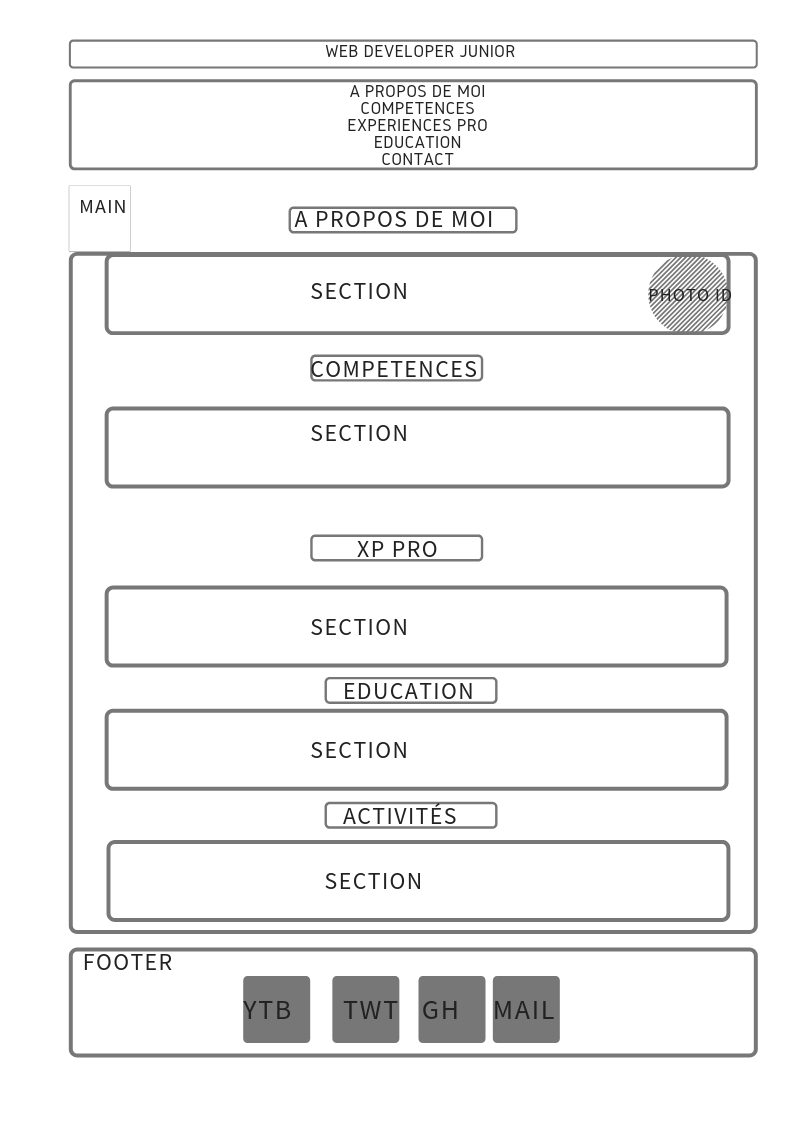
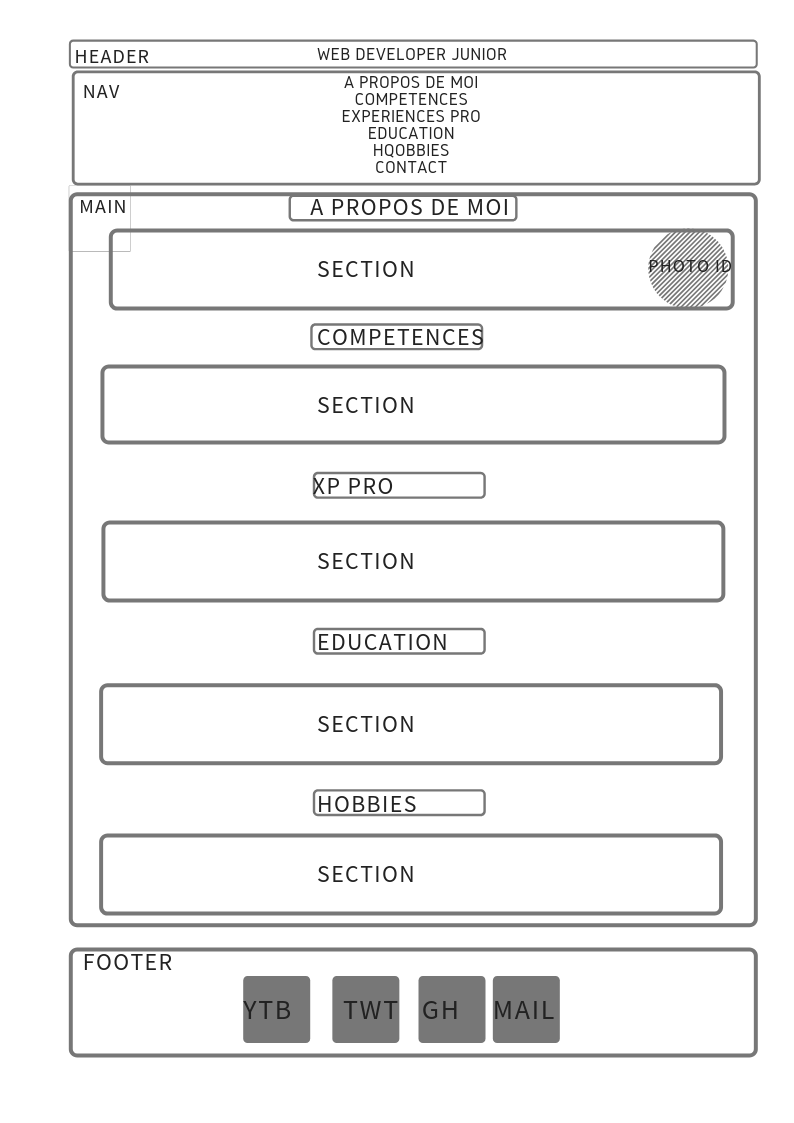
add alpha

Changed region(s): [[0.0605, 0.0312, 0.9673, 0.8415], [0.0605, 0.187, 0.0907, 0.2182]]

diff --git a/index.html b/index.html
@@ -6,7 +6,7 @@
     <!-- css link -->
     <link rel="stylesheet" media="screen" type="text/css" href="cv_style.css">
     <!-- favicon link -->
-    <link rel="shortcut icon" type="image/png" href="file:///home/yesweweb/sites/prod/cv_DRINGOT/DR.jpg" />
+    <link rel="shortcut icon" type="image/png" href="file:///home/yesweweb/sites/prod/cv_DRINGOT/curriculum-vitae/DR.jpg" />
     <!-- fonts link -->
     <link href="https://fonts.googleapis.com/css?family=Oldenburg&display=swap" rel="stylesheet">
     <link href="https://fonts.googleapis.com/css?family=Pirata+One&display=swap" rel="stylesheet">
@@ -14,7 +14,7 @@
 
 <body>
     <header>
-        <h1>Web Developer Junior</h1>
+        <h1 id="TOP">Web Developer Junior</h1>
     </header>
 
     <nav>
@@ -27,7 +27,7 @@
             <hr>
             <li><a href="#E">Education</a></li>
             <hr>
-            <li><a href="#H">Hobby</a></li>
+            <li><a href="#H">Hobbies</a></li>
             <hr>
             <li><a href="#C">Contact</a></li>
         </ul>
@@ -35,13 +35,16 @@
 
     <div>
         <article>
+        <img id="moi" alt="Donovan RINGOT" src="moi.jpg">
             <h2 id="AM">A propos de moi</h2>
+            
         </article>
         <section>
-            <p>RINGOT Donovan 21 ans</p>
-            <p>Actuellement apprenant au sein de la formation Yes We Web proposé par le groupe Vitamine T, afin de
-                devenir développeur web, j'ai toujours eu un goût prononcé pour l'informatique et les nouvelles
-                technologies.</p>
+        
+            <h3>RINGOT Donovan 21 ans</h3>
+            <p>Actuellement apprenant au sein de la formation yes we Web encadré par le groupe vitamine t, j'envisage de devenir développeur Web.
+Ayant un goût prononcé pour l'informatique et les nouvelles technologies depuis le plus jeune âge, j'ai naturellement choisi cette voie. Aujourd'hui, j'ai l'occasion de m'exercer et d'apprendre dans ce domaine.</p>
+                
         </section>
         <br />
 
@@ -49,10 +52,9 @@
             <h2 id="F">Compétences</h2>
         </article>
         <section>
-            <p>XXXX</p>
-            <p>XXXX</p>
-            <p>XXXX</p>
-            <p>XXXX</p>
+            <p>Ma compétence première est évidemment l'informatique.
+Par ailleurs, dans mes emplois passés j'ai pu acquérir un certain sens de l'organisation et du travail en équipe, ce qui me permet de mener à bien les projets d'équipe proposés au sein de ma formation.Enfin j'ai un sens aigu de la rigueur qui me pousse à n'achever mes travaux que lorsqu'ils sont réalisés correctement<p>
+            
         </section>
         <br />
 
@@ -62,66 +64,62 @@
 
         <section>
 
-            <p><span class="years">Mars 2019-Juillet 2019</span></p>
-            <p>Animateur en pause méridienne</p>
+            <h3><span class="years">Mars 2019 ~ Juillet 2019</span></h3>
+            <h3>Animateur en pause méridienne</h3>
             <p>Prise en charge des enfants du CP au CM2. Aide pédagogique à table lors des repas du midi. Animations.
             </p>
             </br></br>
 
-            <p><span class="years">Décembre 2018-Juillet 2019</span></p>
-            <p>Animateur périscolaire</p>
+            <h3><span class="years">Décembre 2018 ~ Juillet 2019</span></h3>
+            <h3>Animateur périscolaire</h3>
             <p>Accueil et prise en charge des enfants (6-12 ans). Aide périscolaire. Animations.</p>
             </br></br>
 
-            <p><span class="years">été 2016-été 2017</span></p>
-            <p>Logisticien</p>
+            <h3><span class="years">Été 2016 ~ Été 2017</span></h3>
+            <h3>Logisticien</h3>
             <p>Réception et déchargement de marchandise. Création et enregistrement de produits.</p>
 
         </section>
         <br />
 
         <article>
-            <h2 id="E">EDUCATION</h1>
+            <h2 id="E">ÉDUCATION</h1>
         </article>
         <section>
             <table>
                 <tbody>
                     <tr>
                         <th><span class="years">2018</span></th>
-                        <td>CERTIFICAT INFORMATIQUE ET INTERNET (C2I)</td>
+                        <td>Certificat Informatique & Internet (C2I)</td>
                     </tr>
                     <tr>
                         <th><span class="years">2015</span></th>
-                        <td>FORMATION AU PREMIER SECOURS PSC1</td>
+                        <td>Formation au premier secours PSC1</td>
                     </tr>
                     <tr>
                         <th><span class="years">2015</span></th>
-                        <td>BACCALAURÉAT SÉRIE ES, MENTION AB</td>
+                        <td>Baccalauréat série ES, mention AB</td>
                     </tr>
                     <tr>
-                        <th><span class="years">2012-2015</span></th>
-                        <td>APPRENTI CINÉASTE, OPTION CINÉMA AUDIOVISUEL (CAV)</td>
+                        <th><span class="years">2012~2015</span></th>
+                        <td>Apprenti cinéaste, option Cinéma AudioVisuel </td>
                     </tr>
                     <tr>
-                        <th><span class="years">2012-2013</span></th>
-                        <td>APPRENTI JOURNALISTE, JOURNAL LE HUBLOT</td>
+                        <th><span class="years">2012~2013</span></th>
+                        <td>Apprenti journaliste, journal Le Hublot</td>
                     </tr>
                     <tr>
                         <th><span class="years">2012</span></th>
-                        <td>BREVET DES COLLÈGES, MENTION B</td>
+                        <td>Brevet des collèges, mention B</td>
                     </tr>
                 </tbody>
             </table>
 
             <article>
-                <h2 id="H">hobby</h2>
+                <h2 id="H">Hobbies</h2>
             </article>
             <section>
-                <p>Musique</p>
-                <p>Cinema</p>
-                <p>Sport/ESport</p>
-                <p>Informatique</p>
-                <p>Dessin</p>
+                <p>L'informatique représente deux facettes pour moi : le travail et l'amusement.Étant attentif à l'univers des jeux vidéos depuis un jeune âge, j'ai suivi l'ascension du monde du e sport auprès du grand public. Lorsque le temps me le permet je suis certaines compétitionsJ'ai par ailleurs d'autres occupations et hobbies comme la musique, j'affectionne particulièrement les concerts et autres festivals &#129311.De plus, considérant qu'un esprit sain va de paire avec un corps sain, j'aime me défouler dans une salle de sport. Je décide parfois de m'évader de mes tracas quotidiens en dessinant pendant plusieurs heures</p>
             </section>
             <br />
         </section>
@@ -131,7 +129,8 @@
 
         <footer>
             <h2 id='C'>Contact</h2>
-            <p>
+            
+           <p id="links">
                 <a href="https://www.youtube.com/channel/UCF-iEC1MDCVTw9G-kSZWV9A?view_as=subscriber">
                     <img alt="youtube" src="youtube.png" width="50" height="50">
                 </a>
@@ -143,12 +142,18 @@
                 <a href="https://github.com/DRINGOT">
                     <img alt="GitHub" src="github.png" width="50" height="50">
                 </a>
-                <a href="mailto:donovan.ringot@hotmail.fr"></a>
-                <img alt="Mail" src="email.png" width="50" height"50">
-
+                <a href="mailto:donovan.ringot@hotmail.fr">
+               <img border=0 alt="Mail" src="email.png" width="50" height="50">
+                </a>
+               
+                </p>
+                <p id="TOP">
+             <a href="#TOP">Retour en haut</a>
             </p>
+
+           
         </footer>
-    </div>
+   </div> 
 </body>
 
 </html>

diff --git a/cv_style.css b/cv_style.css
@@ -1,7 +1,7 @@
 body{ 
 margin:0;
 padding:0;
-background-image:url("https://fotomelia.com/wp-content/uploads/edd/2016/02/photos-gratuites-libres-de-droits-51-1560x1040.jpg") ; 
+background-image:url("https://fotomelia.com/wp-content/uploads/2016/03/images-gratuites-creative-commons-cco-146-1560x1020.jpg") ; 
 -webkit-background-size: cover; 
 -moz-background-size: cover;
 background-size: cover; 
@@ -52,33 +52,27 @@ color:rgb(177, 171, 171);
 }
 
 ul{
-padding:0;
-overflow:hidden; 
+    padding:0;
+overflow:hidden;
+margin-top:-9px;
+margin-bottom:0px; 
 }
 
 hr{
-width:95%;
+width:97%;
 height:2px;
-opacity:0.3;
+opacity:.25;
 background-color:rgb(177, 171, 171);
-margin-top:0px;
+margin-top:-9px;
 margin-bottom:0px;
 }
 /*end of nav bar*/
 
 /* main */
 h2{
-font-family:'Pirata One', cursive;
+font-family:'Oldenburg', cursive;
 font-size:40px;
 letter-spacing:7px;
-text-align:center;
-color: #ffffff;
-padding: auto;
-}
-
-p{
-font-family:'Oldenburg', cursive;
-font-size:22px;
 text-align:center;
 color: #ffffff;
 padding-left: 350px;
@@ -87,13 +81,43 @@ margin-left: 250px;
 margin-right: 250px;
 }
 
-/* faire modif padding etc */
+/* Picture*/
+img#moi {
+	max-width: 10%;
+	height: auto;
+    margin-right: 5rem;
+    margin-left: 20rem;
+    float:right;
+}
+/* End picture */
+
+p{
+font-family:'Oldenburg', cursive;
+font-size:22px;
+text-align:justify;
+color: #ffffff;
+padding-left: 350px;
+padding-right: 350px;
+margin-left: 250px;
+margin-right: 250px;
+}
+
+h3{font-family:'Oldenburg', cursive;
+font-size:22px;
+text-align:center;
+color: #ffffff;
+padding-left: 350px;
+padding-right: 350px;
+margin-left: 250px;
+margin-right: 250px;
+
+}
+/* table in education */
 table{
 margin-right: auto;
 margin-left: auto;
 font-family:'Oldenburg', cursive;
 font-size:22px;
-text-align:center;
 color: #ffffff;
 padding-left: 350px;
 padding-right: 350px;
@@ -101,15 +125,25 @@ margin-left: 250px;
 margin-right: 250px;
 }
 
-td{
-text-align: right
+th{
+    text-align:center;
 }
 
+td{
+text-align: justify;
+padding-left: 20px;
+}
+/* end of table */
 section{
 font-weight:lighter;
+text-align:center;
 }
 
 .years{    
 font-weight:bold;
+text-align:center
 }
 /* end of main */
+
+p#links{text-align:center;}
+p#TOP{margin-left:0rem;}
